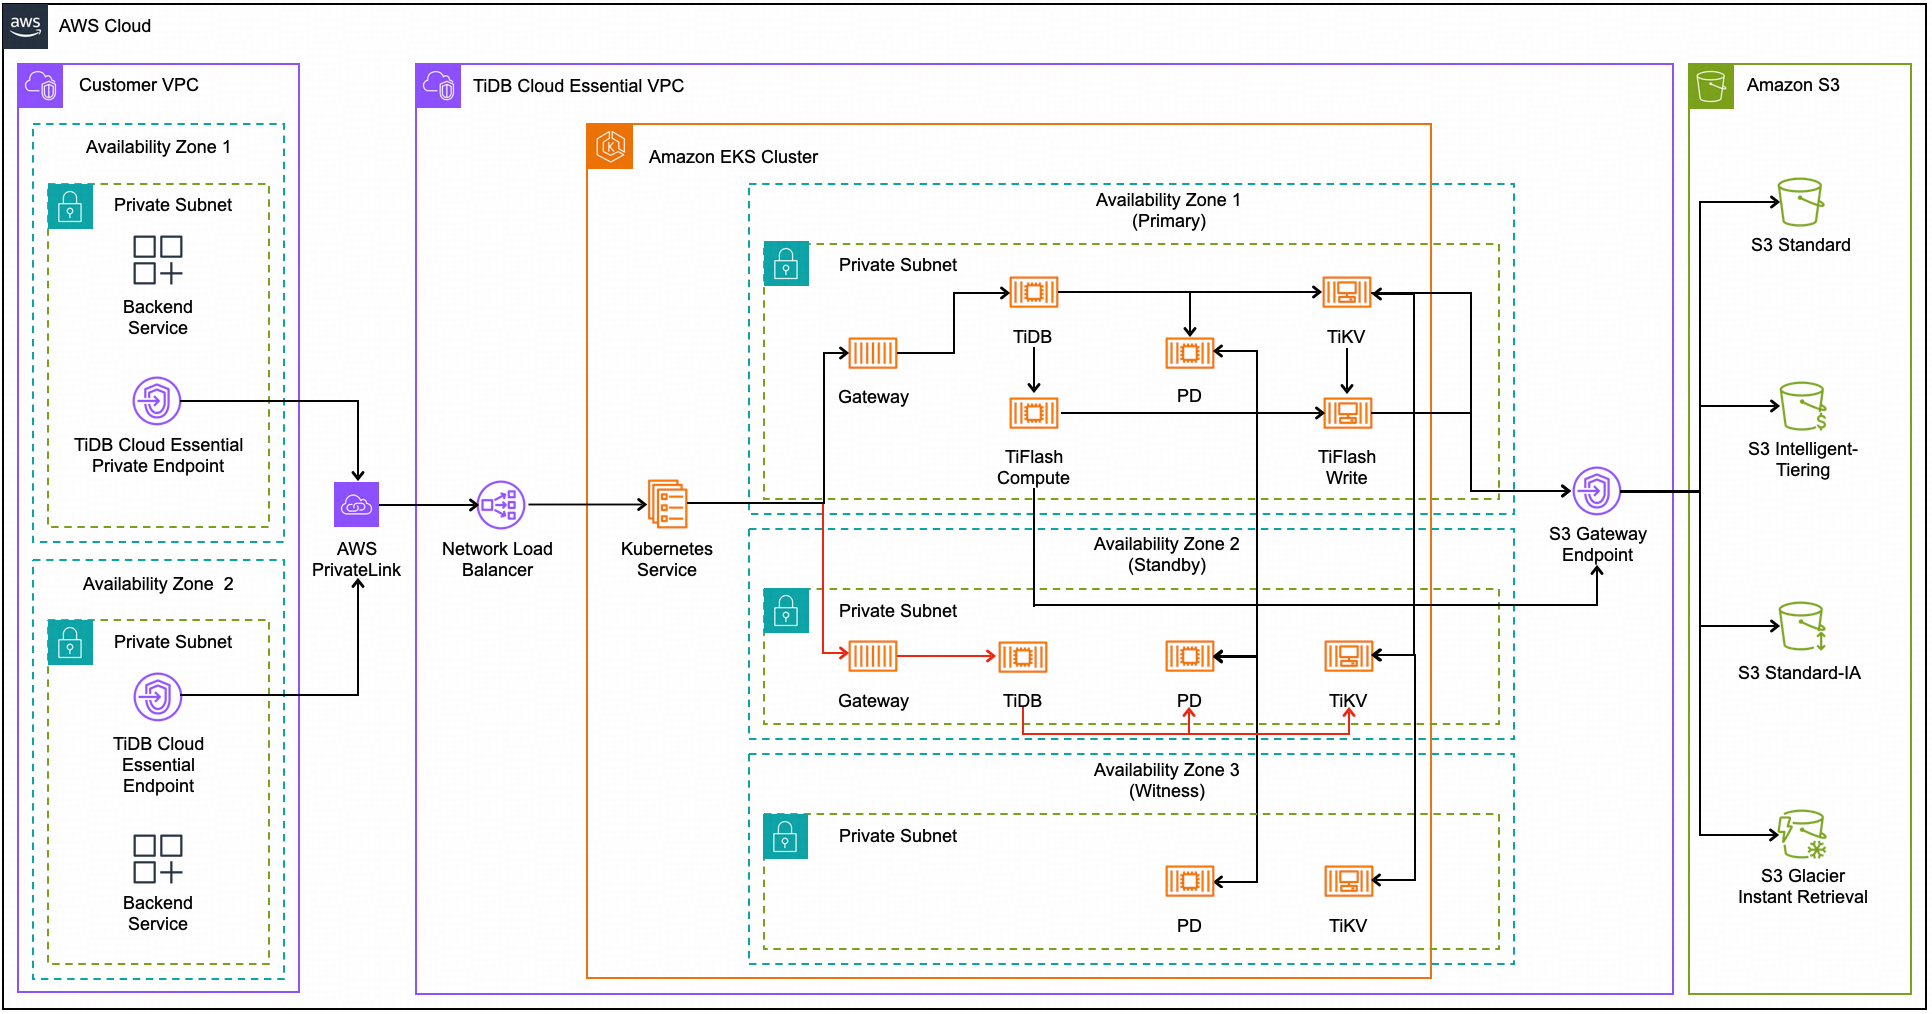
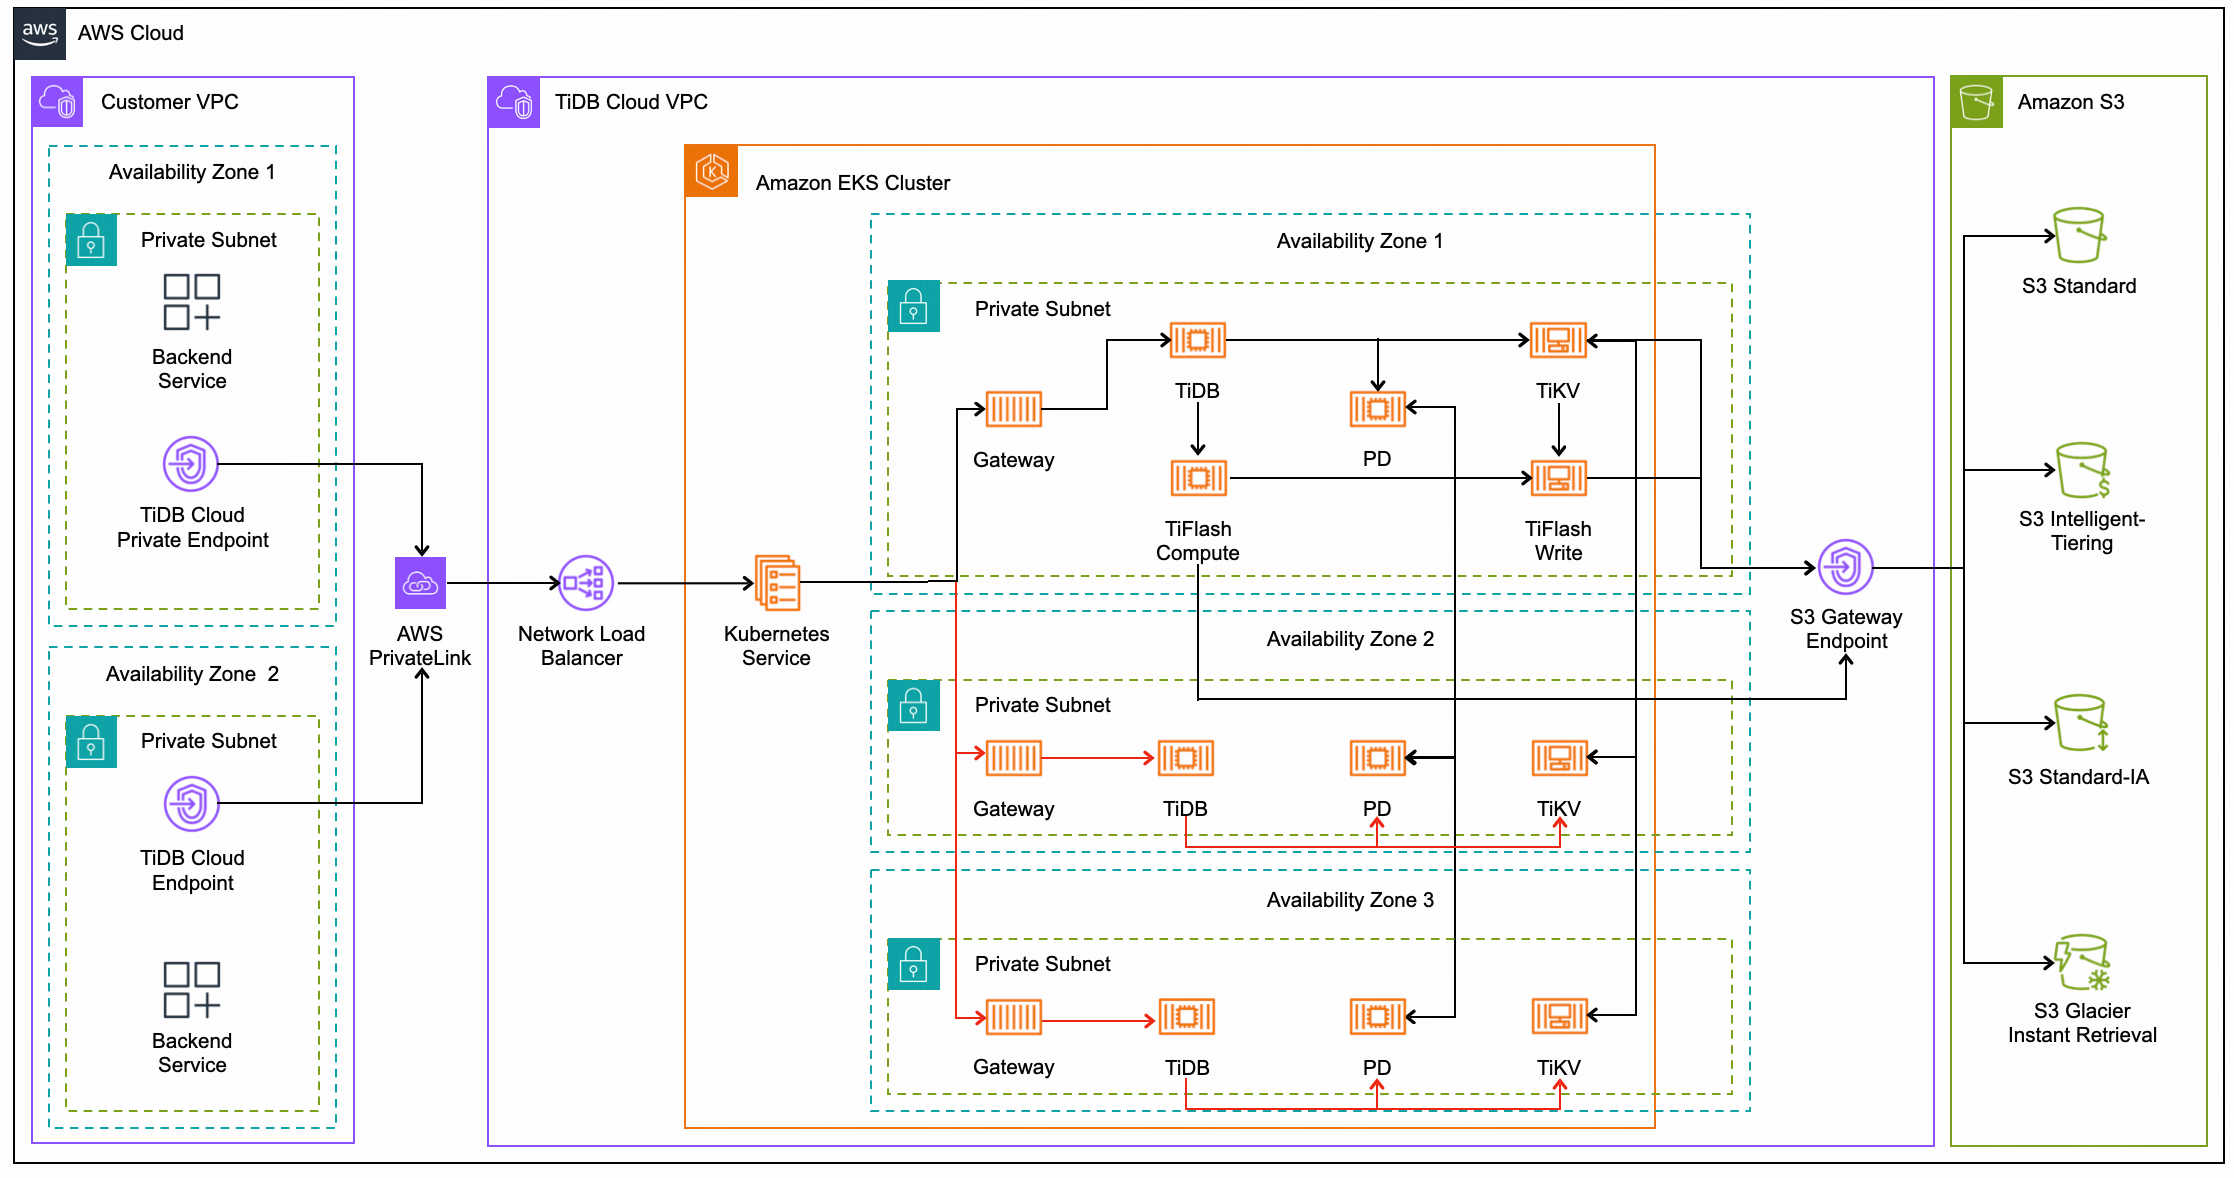
Essential-HighAvailability-changed
- Essential only support zonal high availability
- Private link does not support cross-region

diff --git a/tidb-cloud/architecture-concepts.md b/tidb-cloud/architecture-concepts.md
@@ -53,15 +53,9 @@ For applications experiencing growing workloads and needing scalability in real 
 
 - **Enhanced capabilities**: includes all capabilities of the Starter plan, along with the capacity to handle larger and more complex workloads, as well as advanced security features.
 - **Automatic scaling**: automatically adjusts storage and computing resources to efficiently meet changing workload demands.
-- **High availability**: built-in fault tolerance and redundancy ensure your applications remain available and resilient, even during infrastructure failures.
 - **Predictable pricing**: billed based on storage and Request Capacity Units (RCUs) of the compute resources, offering transparent, usage-based pricing that scales with your needs, so you only pay for what you use without surprises.
 
-{{{ .essential }}} offers two types of high availability to address varying operational requirements.
-
-- Zonal High Availability: places all components within the same availability zone, which results in lower network latency.
-- Regional High Availability: distributes nodes across multiple availability zones, providing maximum infrastructure isolation and redundancy.
-
-For more information, see [High Availability in TiDB Cloud](/tidb-cloud/serverless-high-availability.md).
+{{{ .essential }}} offers Zonal High Availability: places all components within the same availability zone, which results in lower network latency. For more information, see [High Availability in TiDB Cloud](/tidb-cloud/serverless-high-availability.md).
 
 ## {{{ .premium }}}
 

diff --git a/tidb-cloud/serverless-high-availability.md b/tidb-cloud/serverless-high-availability.md
@@ -22,7 +22,7 @@ TiDB Cloud extends these capabilities with zonal high availability and regional 
 >
 > - For {{{ .starter }}} instances, only zonal high availability is enabled, and it is not configurable.
 > - For {{{ .premium }}} instances, only regional high availability is enabled and is not configurable.
-> - For {{{ .essential }}} instances hosted in the AWS Tokyo (ap-northeast-1) region or any Alibaba Cloud region, regional high availability is enabled by default. You can change it to zonal high availability as needed during {{{ .essential }}} instance creation. For {{{ .essential }}} instances hosted in other regions, only zonal high availability is enabled, and it is not configurable.
+> - For {{{ .essential }}} instances, only zonal high availability is enabled, and it is not configurable.
 
 - **Zonal high availability**: This option places all nodes within a single availability zone, reducing network latency. It ensures high availability without requiring application-level redundancy across zones, making it suitable for applications that prioritize low latency within a single zone. For more information, see [Zonal high availability architecture](#zonal-high-availability-architecture).
 
@@ -86,7 +86,7 @@ The gateway and computing layers are stateless, so failover involves restarting 
 
 ## Regional high availability architecture
 
-When you create a {{{ .essential }}} or {{{ .premium }}} instance with regional high availability, critical OLTP (Online Transactional Processing) workload components, such as PD and TiKV, are deployed across multiple availability zones to ensure redundant replication and maximizing availability. During normal operations, components like Gateway, TiDB, and TiFlash compute/write nodes are hosted in the primary availability zone. These components in data plane offer infrastructure redundancy through virtual machine pools, which minimizes failover time and network latency due to colocation.
+When you create a {{{ .premium }}} instance with regional high availability, critical OLTP (Online Transactional Processing) workload components, such as PD and TiKV, are deployed across multiple availability zones to ensure redundant replication and maximizing availability. During normal operations, components like Gateway, TiDB, and TiFlash compute/write nodes are hosted in the primary availability zone. These components in data plane offer infrastructure redundancy through virtual machine pools, which minimizes failover time and network latency due to colocation.
 
 > **Note:**
 >

diff --git a/tidb-cloud/features.md b/tidb-cloud/features.md
@@ -253,7 +253,7 @@ This document lists the feature support status for different TiDB Cloud plans, i
     <td rowspan="1" style="background-color: white;">High availability</td>
     <td>Cross-AZ failover</td>
     <td style="text-align:center; font-size: 14px;">❌</td>
-    <td style="text-align:center;">✅</td>
+    <td style="text-align:center;">❌</td>
     <td style="text-align:center;">✅</td>
     <td style="text-align:center;">✅</td>
   </tr>

diff --git a/tidb-cloud/serverless-private-link-connection-to-aws-rds.md b/tidb-cloud/serverless-private-link-connection-to-aws-rds.md
@@ -48,7 +48,7 @@ The Amazon RDS instance must meet the following requirements:
 
 > **Note**
 >
-> To connect to a cross-region RDS instance, contact [TiDB Cloud Support](/tidb-cloud/tidb-cloud-support.md).
+> Private Link currently does not support cross-region connectivity. For cross-region connections, it is recommended to use VPC peering to establish a link (TiDB Cloud Premium only feature).
 
 ## Step 2. Expose the Amazon RDS instance as an endpoint service
 